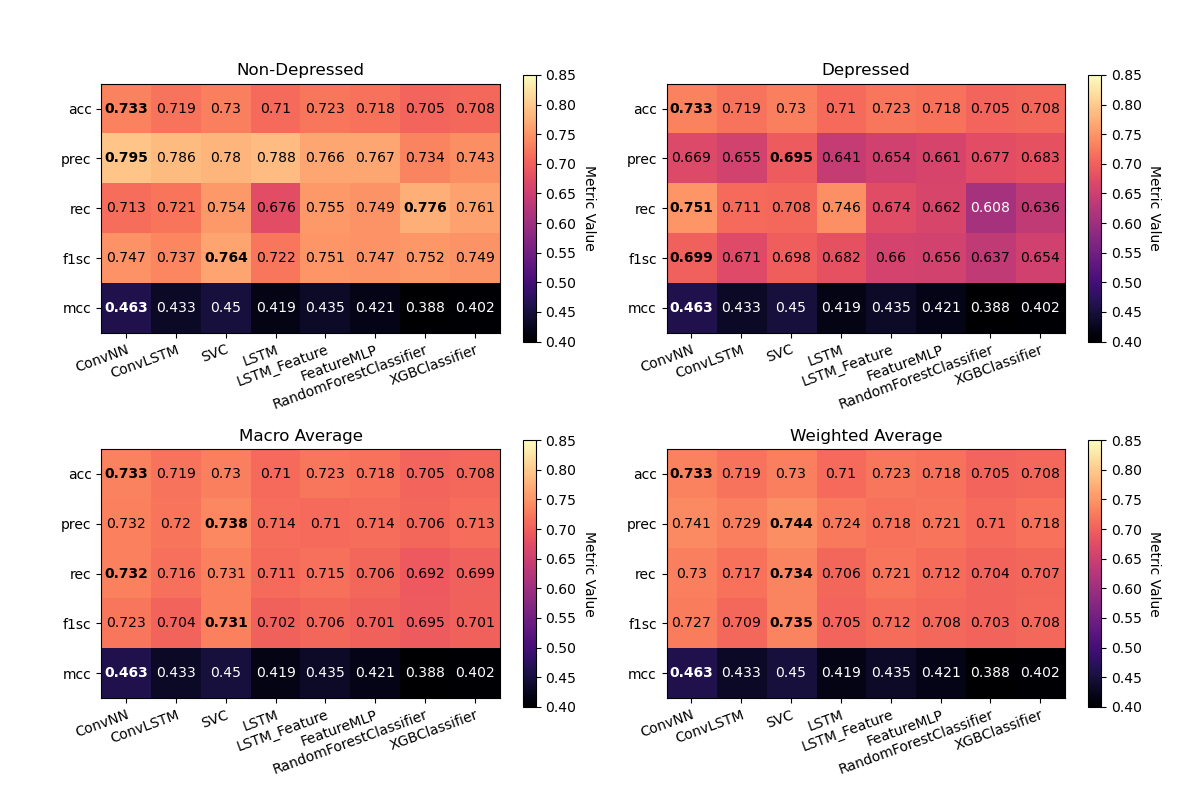
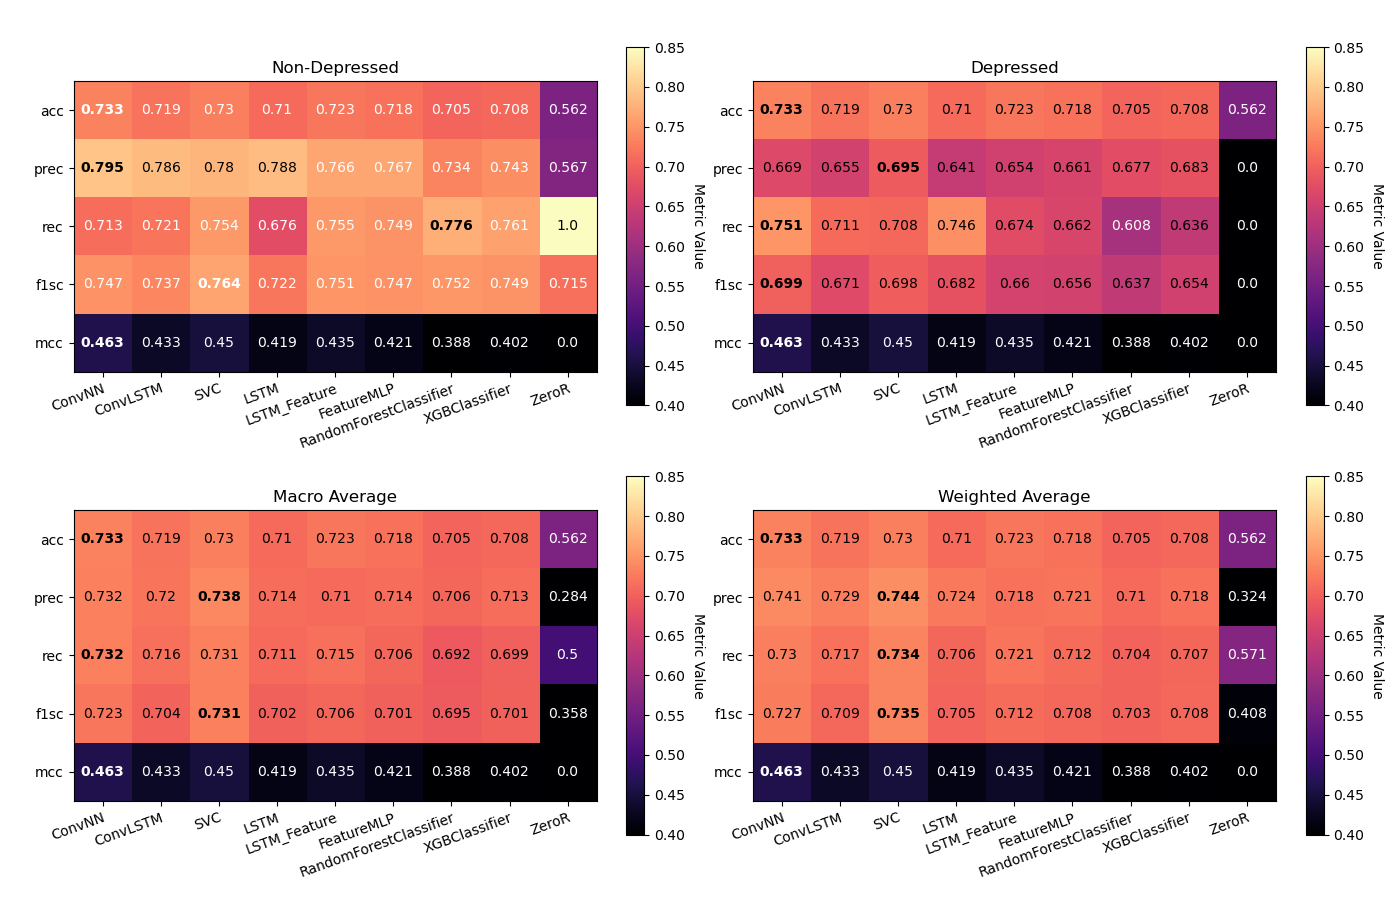
updated results graphs

diff --git a/results.py b/results.py
@@ -8,7 +8,7 @@ from core.eval import metric_class_averages
 
 def plot_class_comparisons(results:pd.DataFrame, class_val, ax, title, cbarlabel, colormap, minmax:tuple[int,int] = (0.4,0.85)):
     
-    results = results[(results['note']==class_val) & (results['model_name']!='ZeroR')]
+    results = results[(results['note']==class_val)]
     classes = list(results['model_name'])
     metrics = [col for col in results.columns if (col != 'model_name' and col != 'note')]
     values = np.array(results.loc[:,metrics]).transpose()
@@ -25,7 +25,7 @@ def plot_class_comparisons(results:pd.DataFrame, class_val, ax, title, cbarlabel
     for i in range(len(metrics)):
         for j in range(len(classes)):
             color=textcolors[int(im.norm(values[i, j]) > threshold)]
-            fontweight = 'bold' if values[i,j] == values[i,:].max() else None
+            fontweight = 'bold' if values[i,j] == values[i,:-1].max()else None
             text = ax.text(j, i, values[i, j], ha="center", va="center", color=color, fontweight=fontweight)
 
     ax.set_title(title)
@@ -55,8 +55,8 @@ final_results = final_results.map(lambda x : round(x,3) if isinstance(x,float) e
 final_results.to_csv(os.path.join(RESULTS_DIR, wt_sett['csv']))
 print(final_results)
 
-fig, ((ax1, ax2), (ax3, ax4)) = plt.subplots(2, 2, figsize=(12,8))
-fig.tight_layout(pad=5)
+fig, ((ax1, ax2), (ax3, ax4)) = plt.subplots(2, 2, figsize=(14,9))
+fig.tight_layout(pad=3)
 plot_class_comparisons(final_results, class_val=0, ax=ax1, title="Non-Depressed", cbarlabel="Metric Value", colormap=wt_sett['cmap'])
 plot_class_comparisons(final_results, class_val=1, ax=ax2, title="Depressed", cbarlabel="Metric Value", colormap=wt_sett['cmap'])
 plot_class_comparisons(final_results, class_val='macro_avg', ax=ax3, title="Macro Average", cbarlabel="Metric Value", colormap=wt_sett['cmap'])
